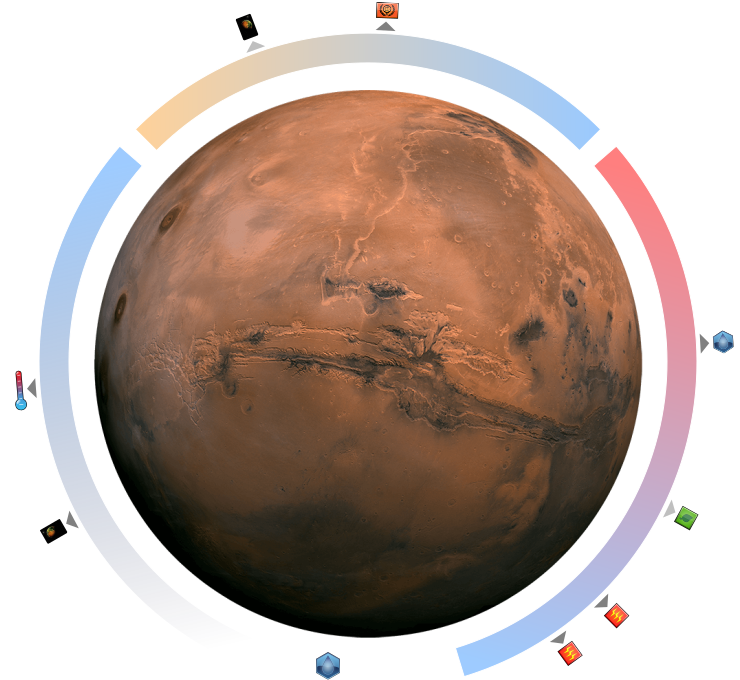
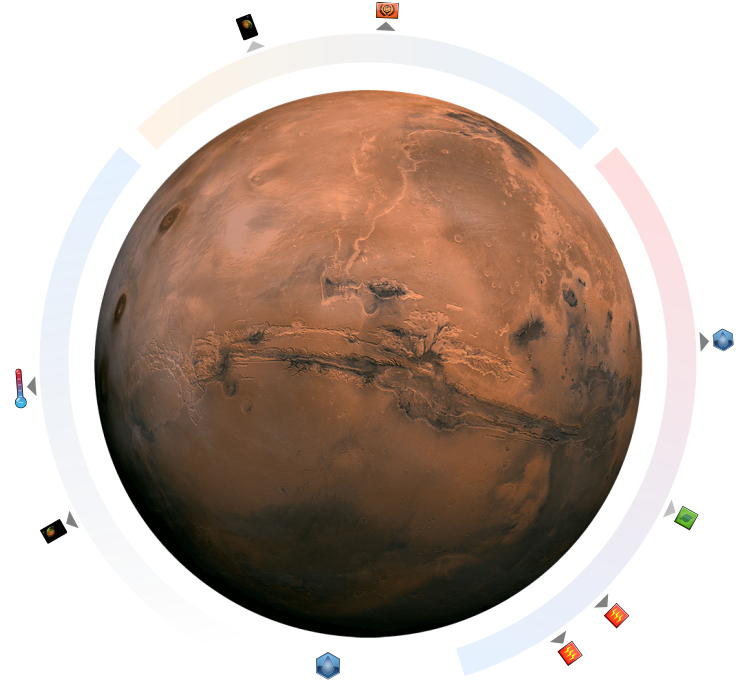
Add the large board image without Venus and refresh the large board art
Re-export mars-large.png from the SVG and add
mars-large-without-venus.png, in which the Venus track and its bonus
markers are faded out as on the standard board. Games without Venus now
use it.

Changed region(s): [[0.6216, 0.2162, 0.9946, 1.0], [0.1865, 0.0309, 0.8081, 0.2162], [0.0, 0.2162, 0.1865, 0.8029]]

diff --git a/src/styles/board.less b/src/styles/board.less
@@ -49,13 +49,11 @@
   background-image: url(./assets/board/mars-large.png);
 }
 
-// Without the Venus track, the larger maps use a Venus-less board image (mirrors
-// .board-without-venus for the standard board). The combined selector is more specific than
-// .board-cont--large, so it wins when both classes are on the container.
-// TODO: switch this URL to ./assets/board/mars-large-without-venus.png once that art exists;
-// using mars-large.png as a placeholder for now.
+// Without the Venus expansion, the larger maps use a board image whose Venus track is faded out
+// (mirrors .board-without-venus for the standard board). The combined selector is more specific
+// than .board-cont--large, so it wins when both classes are on the container.
 .board-cont--large.board-without-venus {
-  background-image: url(./assets/board/mars-large.png);
+  background-image: url(./assets/board/mars-large-without-venus.png);
 }
 
 .board-legend {
